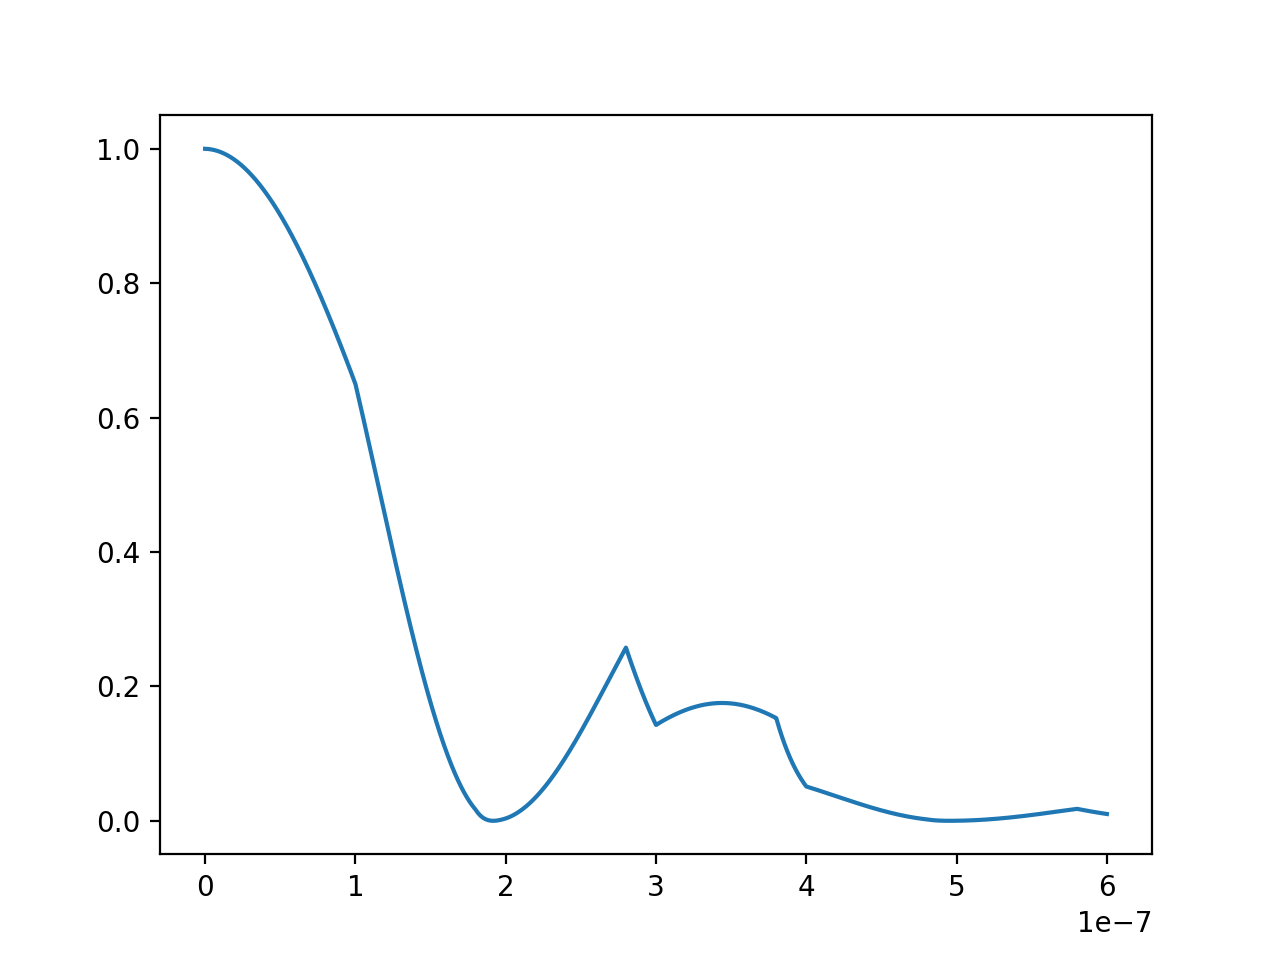
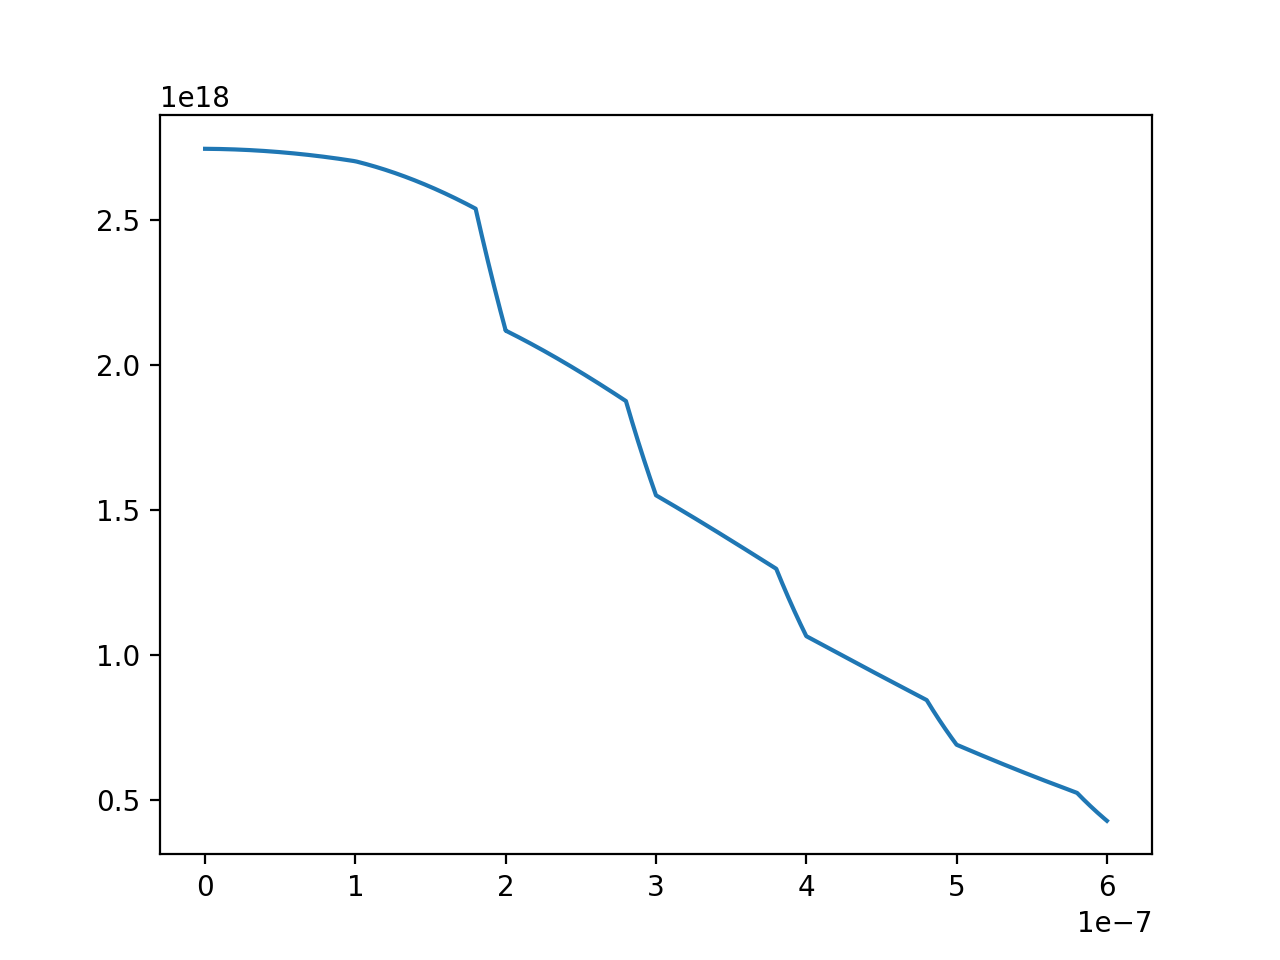
implemented wavelength dependent light intensity

diff --git a/Physics/FiberModeling/emissivity.py b/Physics/FiberModeling/emissivity.py
@@ -9,15 +9,27 @@ import matplotlib.pyplot as plt
 plt.rcParams['figure.dpi']=200 # setting the dpi of outputted graphs.
 
 """
+Printing and utility functions
+"""
+def print_time(section_name, begin_time,stop_time, decimals):
+    print(section_name + ' took ' + str(round(stop_time-begin_time,decimals)) + ' s')
+
+"""
 Constants and conversion functions
 """
 c = 299792458
 h = 6.62607015*10**-34  # Planck Constant in Si
 k_B = 1.380649*10**-23  # Boltzmann Constant in Si
 
+
 # k = 2pi/lambda, lamda changes in a material if f stays constant
 # f = v/lambda
 # v = c/n
+
+def get_Kelvin(temp):
+    # Input temperature in Celsius
+    K = temp + 273.15
+    return K
 
 def get_lambda_n(f, n):
     v = c/n
@@ -38,6 +50,9 @@ def get_I_absorption(k_n, lambda_vac, x_i):  # This is a different k (extinction
 """
 Material Constants
 """
+#Initialize time:
+start = time.time()
+
 Air_n = 1.00027417
 Air_k = 0.005
 
@@ -73,10 +88,13 @@ for i in range (layers):
     Domains.append(Film2)
 
 
+amplitude_time = time.time()
+print_time("Initializing", start, amplitude_time, 4)
 
 """
 Input Conditions
 """
+
 
 Amplitude = 1               # Constant amplitude of intitial signal. 
 lambda_vacuum = 1*10**-6    # Desired vacuum wavelength of light.
@@ -95,7 +113,7 @@ def E_at_lambda(Domains, Amplitude, lambda_vacuum, resolution):
     phi_starts = [0]
     d=0
     for domain in Domains:
-        lambda_n = get_lambda_n(f, domain[1],c)
+        lambda_n = get_lambda_n(f, domain[1])
         x_min = 0
         x_max = domain[0]
         x = np.linspace(x_min,x_max, nx)
@@ -123,20 +141,69 @@ def E_at_lambda(Domains, Amplitude, lambda_vacuum, resolution):
     return E_all, I_all, x_all
 
 
-E_all, I_all, x_all = E_at_lambda(Domains, Amplitude, lambda_vacuum, resolution)
+"""
+Wavelength-dependent intensity input parameters
+"""
+Wavelength_dependent = True         # Set to false if you want intensity at just one input wavelength
+Wavelength_single = 1*10**-6        # Set to the desired input wavelength if you only want intensity at a single wavelength.
 
-plt.plot(x_all,E_all)
+Thermal_source = True               # Set to false if you do not want to approximate a black body light source
+#^ This may need to be switched to a selector for several standard wavelength-dependent light sources
+Temperature = get_Kelvin(300)       # temperature in Kelvin
 
+# Input wavelength range and resolution desired:
+wavelength_min = 0
+wavelength_max = 10*10**-6
+wavelength_resolution = 101
+
+# Bookkeeping and avoiding dividing by 0:
+lx = (wavelength_max - wavelength_min)/(wavelength_resolution-1)
+wavelength_min = wavelength_min+lx
+wavelength_max = wavelength_max+lx
+wavelengths = np.linspace(wavelength_min,wavelength_max, wavelength_resolution)
+Amplitudes = np.zeros(wavelength_resolution)+Amplitude
+
+# Setting Amplitude over wavelength range:
+if Thermal_source == True:
+    for j in range(wavelength_resolution):
+        Amplitudes[j] = get_BoltzmannLaw(wavelengths[j], Temperature)
+#^ This is not as efficient as calling this in the same loop that calculates the E for each wavelength below.
+#^ It instead makes a single conditional check instead of once per loop.
+
+wavelengthdependent_time = time.time()
+print_time("Calculating amplitudes", amplitude_time,wavelengthdependent_time, 4)
+
+# For single wavelengths:
+if Wavelength_dependent == False:
+    wavelengths[0] = Wavelength_single
+
+# Performing the calculation once to initiate the arrays:
+lambda_vacuum = wavelengths[0]
+E_total, I_total, x_total = E_at_lambda(Domains, Amplitudes[0], lambda_vacuum, resolution)
+
+# Iterating for each wavelength in range:
+if Wavelength_dependent == True:
+    for j in range(1, wavelength_resolution):
+        E_j, I_j, dump = E_at_lambda(Domains, Amplitudes[j], wavelengths[j], resolution)
+        E_total = E_total + E_j
+        I_total = I_total + I_j
+
+plotting_time = time.time()
+print_time("Calculating wavelength-dependent intensities", wavelengthdependent_time,plotting_time, 4)
+
+
+plt.plot(x_total,E_total)
 plt.savefig('/workspaces/Projects/Physics/FiberModeling/outputE.png')
-
 plt.clf()
-plt.plot(x_all,I_all)
 
+plt.plot(x_total,I_total)
 plt.savefig('/workspaces/Projects/Physics/FiberModeling/outputI.png')
+plt.clf()
 
-"""
-Can easily be extended to sum intensity over a variety of wavelengths. 
-Might need to make everything after the domain inputs into a function.
-Then, I can iterate over a linspace of wavelengths and add each resulting E_all, then displaying over all wavelengths.
-There probably needs to also be a way to modify the E_all intensity at a particular wavelength according to a distribution of lightsource wavelength-dependent intensity.
-"""
+if Thermal_source == True:
+    plt.plot(wavelengths, Amplitudes)
+    plt.savefig('/workspaces/Projects/Physics/FiberModeling/outputThermalSource.png')
+
+end_time = time.time()
+print_time("Plotting", plotting_time, end_time, 4)
+
